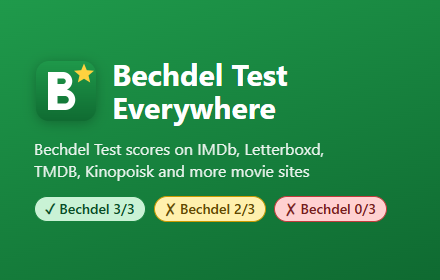
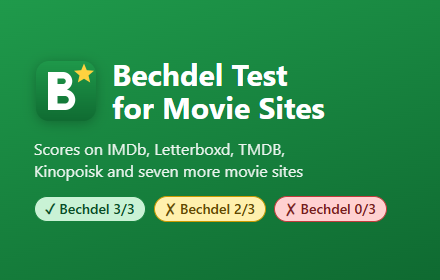
Rename to Bechdel Test for Movie Sites
Match the extension, package and package file to the repository, now
rrokot/bechdel-test-for-movie-sites: update the manifest name, popup,
release and CI globs, links in the docs and the promo tile. Say that the
project is unofficial in the README and the store listing.

Changed region(s): [[0.0591, 0.5143, 0.7386, 0.6571], [0.2364, 0.3429, 0.7386, 0.4571]]

diff --git a/src/manifest.ts b/src/manifest.ts
@@ -2,18 +2,19 @@ import { SITES } from './catalog/sites.ts';
 import { FETCH_HOSTS } from './shared/config.ts';
 
 const BECHDELTEST_PAGES = ['https://bechdeltest.com/*', 'https://www.bechdeltest.com/*'];
+const NAME = 'Bechdel Test for Movie Sites';
 const pattern = (host: string) => `https://${host}/*`;
 
 export const createManifest = (version: string): chrome.runtime.ManifestV3 => ({
   manifest_version: 3,
-  name: 'Bechdel Test Everywhere',
+  name: NAME,
   // The Chrome Web Store rejects descriptions over 132 characters.
   description: 'Shows Bechdel Test scores on IMDb, Kinopoisk, Letterboxd, TMDB and more, '
     + 'and adds ratings and filters to bechdeltest.com.',
   version,
   minimum_chrome_version: '130',
   icons: { 16: 'icons/16.png', 48: 'icons/48.png', 128: 'icons/128.png' },
-  action: { default_title: 'Bechdel Test Everywhere', default_popup: 'popup.html' },
+  action: { default_title: NAME, default_popup: 'popup.html' },
   background: { service_worker: 'background.js' },
   content_scripts: [
     {

diff --git a/build.ts b/build.ts
@@ -24,7 +24,7 @@ const zipDist = async () => {
     const path = join(entry.parentPath, entry.name);
     files[relative(OUT_DIR, path).replaceAll('\\', '/')] = await readFile(path);
   }
-  const name = `bechdeltest-everywhere-${version}.zip`;
+  const name = `bechdel-test-for-movie-sites-${version}.zip`;
   await writeFile(name, zipSync(files, { level: 9 }));
   console.log(`Packed ${Object.keys(files).length} files into ${name}`);
 };

diff --git a/src/popup/popup.html b/src/popup/popup.html
@@ -2,7 +2,7 @@
 <html lang="en">
 <head>
   <meta charset="utf-8">
-  <title>Bechdel Test Everywhere</title>
+  <title>Bechdel Test for Movie Sites</title>
   <style>
     :root {
       color-scheme: light dark;
@@ -37,7 +37,7 @@
   </style>
 </head>
 <body>
-  <h1>Bechdel Test Everywhere</h1>
+  <h1>Bechdel Test for Movie Sites</h1>
   <section>
     <h2>Bechdel scores</h2>
     <p id="db-status">&nbsp;</p>

diff --git a/src/catalog/badge.ts b/src/catalog/badge.ts
@@ -67,7 +67,7 @@ export const describeBadge = (content: BadgeContent) => {
 
 export const createBadge = () => {
   const host = document.createElement('span');
-  host.dataset.bechdelEverywhere = '';
+  host.dataset.bechdelBadge = '';
   const style = document.createElement('style');
   style.textContent = STYLES;
   const link = document.createElement('a');

diff --git a/store/listing.md b/store/listing.md
@@ -10,7 +10,7 @@ from the manifest (`src/manifest.ts`); everything else is entered by hand.
 
 ### Description
 
-Know before you watch: Bechdel Test Everywhere shows a movie's Bechdel Test
+Know before you watch: Bechdel Test for Movie Sites shows a movie's Bechdel Test
 score right next to its title on the movie sites you already use.
 
 The Bechdel Test asks three questions: are there at least two women in the
@@ -46,7 +46,8 @@ No account, no API key, no tracking. The extension keeps a local copy of the
 public bechdeltest.com list and only sends movie IDs and titles to the rating
 sources. It never records which pages you visit.
 
-Open source: https://github.com/rrokot/bechdeltest-enhanced
+Unofficial: not affiliated with bechdeltest.com, IMDb or the other sites.
+Open source: https://github.com/rrokot/bechdel-test-for-movie-sites
 
 ### Graphics
 
@@ -104,4 +105,4 @@ not sold to third parties, not used or transferred for purposes unrelated to the
 single purpose, and not used for creditworthiness or lending.
 
 **Privacy policy URL:**
-https://github.com/rrokot/bechdeltest-enhanced/blob/main/PRIVACY.md
+https://github.com/rrokot/bechdel-test-for-movie-sites/blob/main/PRIVACY.md

diff --git a/README.md b/README.md
@@ -1,16 +1,19 @@
-# Bechdel Test Everywhere
+# Bechdel Test for Movie Sites
 
 A Chrome extension that shows [bechdeltest.com](https://bechdeltest.com/)
 scores on popular movie sites, and adds IMDb and Kinopoisk ratings, genres and
 filters to bechdeltest.com itself.
+
+It is an unofficial project, not affiliated with bechdeltest.com, IMDb or the
+other sites.
 
 ![Bechdel Test badge on IMDb](store/screenshots/2-imdb.png)
 
 ## Install
 
 - **Chrome Web Store** — coming soon.
-- **From a release** — download `bechdeltest-everywhere-*.zip` from the
-  [latest release](https://github.com/rrokot/bechdeltest-enhanced/releases/latest),
+- **From a release** — download `bechdel-test-for-movie-sites-*.zip` from the
+  [latest release](https://github.com/rrokot/bechdel-test-for-movie-sites/releases/latest),
   unpack it, then open `chrome://extensions`, turn on **Developer mode** and
   choose **Load unpacked**.
 

diff --git a/PRIVACY.md b/PRIVACY.md
@@ -1,6 +1,6 @@
 # Privacy Policy
 
-Bechdel Test Everywhere does not collect, sell or share any personal data, and
+Bechdel Test for Movie Sites does not collect, sell or share any personal data, and
 it has no servers of its own.
 
 ## What the extension requests
@@ -36,4 +36,4 @@ extension removes all of its data.
 
 ## Contact
 
-Questions: [GitHub issues](https://github.com/rrokot/bechdeltest-enhanced/issues).
+Questions: [GitHub issues](https://github.com/rrokot/bechdel-test-for-movie-sites/issues).
